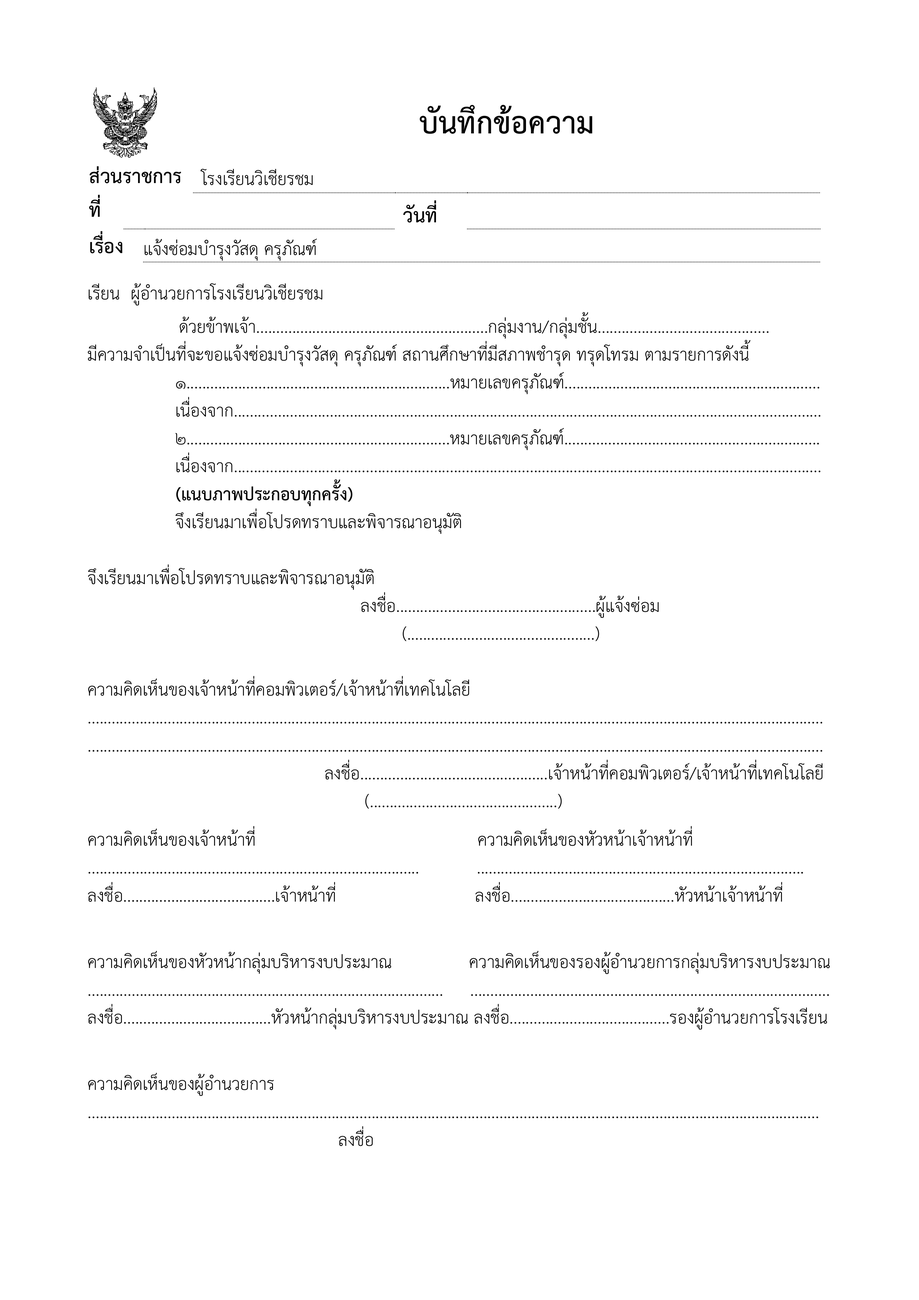
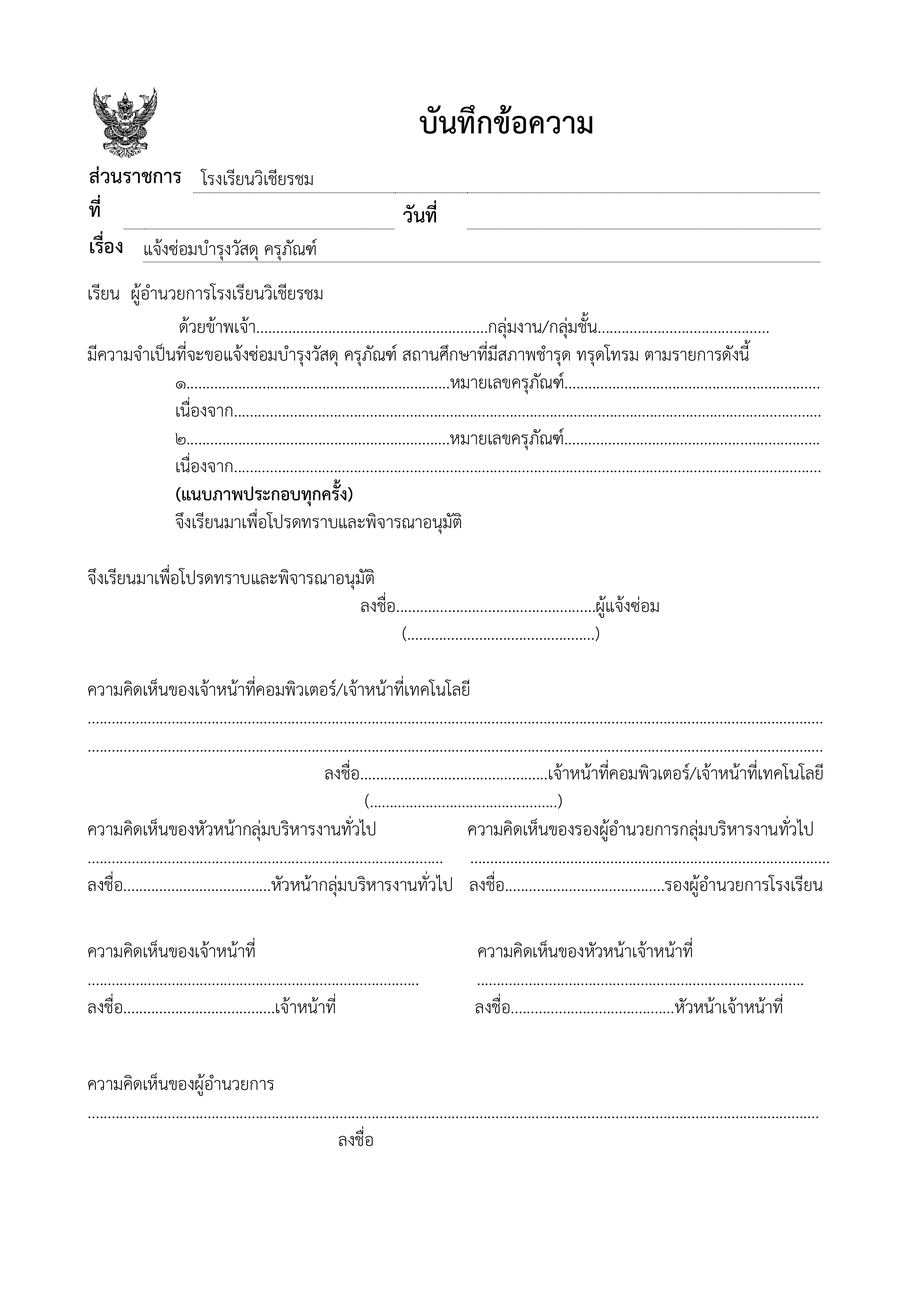
Add files via upload

diff --git a/admin.html b/admin.html
@@ -511,7 +511,7 @@
         names.map(n => `<option value="${esc(n)}">${esc(n)}</option>`).join('');
       $('e-staff').value = current || '';
     }
-    $('e-type').addEventListener('change', () => { fillStaff($('e-type').value, $('e-staff').value); toggleGeneralRows(); reasonHint(); });
+    $('e-type').addEventListener('change', () => { fillStaff($('e-type').value, $('e-staff').value); toggleSignerRows(); reasonHint(); });
     // งานไอที: ความเห็นพิมพ์ลงในแบบฟอร์ม (บังคับกรอก) / งานทั่วไป: แบบฟอร์มไม่มีช่องนี้ (เก็บไว้ในระบบเท่านั้น)
     function reasonHint() {
       $('e-reason-hint').textContent = $('e-type').value === 'IT'
@@ -665,13 +665,20 @@
       el.classList.remove('hidden');
     }
 
+    // ช่องที่ไม่ได้อยู่ในแบบฟอร์มทุกประเภท บอกไว้ว่าใช้กับใบประเภทไหน
+    function slotForms(k) {
+      const types = Object.keys(App.TYPES).filter(ty => App.slotsFor(ty).indexOf(k) >= 0);
+      if (types.length === Object.keys(App.TYPES).length) return '';
+      return ` <span class="font-normal text-xs text-gray-400">(เฉพาะใบ${esc(types.map(ty => App.TYPES[ty].label).join(' / '))})</span>`;
+    }
+
     function signerCard(k, s) {
       const base = (CFG.approvers || {})[k] || {};
       const sub = s.sub || {};
       return `
         <div class="border border-gray-200 rounded-xl p-4" data-slot="${k}">
           <div class="flex items-center justify-between gap-2 mb-2">
-            <div class="font-semibold text-gray-900">${esc(slotLabel(k))}</div>
+            <div class="font-semibold text-gray-900">${esc(slotLabel(k))}${slotForms(k)}</div>
             <span class="s-chip text-xs"></span>
           </div>
           <label class="block text-xs text-gray-500 mb-1">ชื่อผู้ลงนามปกติ</label>
@@ -781,20 +788,21 @@
         const def = App.resolveSigner(k, signerSettings, { createdAt: t.createdAt });
         const o = own[k] || {};
         return `
-          <div class="grid grid-cols-1 sm:grid-cols-[11rem_1fr_1fr] gap-2 sm:items-center" data-tslot="${k}" ${/^general/.test(k) ? 'data-general' : ''}>
+          <div class="grid grid-cols-1 sm:grid-cols-[11rem_1fr_1fr] gap-2 sm:items-center" data-tslot="${k}">
             <div class="text-sm text-gray-600">${esc(slotLabel(k))}</div>
             <input class="field t-name text-sm" maxlength="100" value="${esc(o.name || '')}" placeholder="${esc((def.name || 'ชื่อผู้ลงนาม') + (def.source === 'sub' ? ' (ผู้แทน)' : ''))}" aria-label="ชื่อผู้ลงนาม ${esc(slotLabel(k))}">
             <input class="field t-note text-sm" maxlength="150" value="${esc(o.note || '')}" placeholder="ข้อความใต้ชื่อ (ถ้ามี)" aria-label="ข้อความใต้ชื่อ ${esc(slotLabel(k))}">
           </div>`;
       }).join('');
-      toggleGeneralRows();
+      toggleSignerRows();
       const n = App.SIGNER_SLOTS.filter(k => own[k] && own[k].name).length;
       $('m-signers-hint').textContent = n ? `(เปลี่ยนไว้ ${n} ช่อง)` : '(ตามที่ตั้งไว้)';
       $('m-signers').open = n > 0;
     }
-    function toggleGeneralRows() {
-      const it = $('e-type').value === 'IT';
-      $('m-signer-rows').querySelectorAll('[data-general]').forEach(r => r.classList.toggle('hidden', it));
+    // แสดงเฉพาะช่องลงนามที่มีในแบบฟอร์มของประเภทงานที่เลือก
+    function toggleSignerRows() {
+      const slots = App.slotsFor($('e-type').value);
+      $('m-signer-rows').querySelectorAll('[data-tslot]').forEach(r => r.classList.toggle('hidden', slots.indexOf(r.dataset.tslot) < 0));
     }
     $('m-signer-rows').addEventListener('change', e => {
       if (!e.target.classList.contains('t-name')) return;
@@ -854,7 +862,7 @@
           if (e.origin !== location.origin || e.source !== f.contentWindow) return;
           const m = e.data || {};
           if (m.type !== 'repair-pdf') return;
-          finish(m.ok ? null : new Error(m.error || 'สร้าง PDF ไม่สำเร็จ'), m.data);
+          finish(m.ok ? null : new Error(m.error || 'สร้าง PDF ไม่สำเร็จ'), { data: m.data, form: m.form });
         }
         function finish(err, data) {
           clearTimeout(timer);
@@ -879,7 +887,7 @@
       refreshPdfRow(id);
       const label = 'ใบแจ้งซ่อม #' + App.padNo((byId.get(id) || {}).no);
       try {
-        const data = await renderPdf(id);
+        const { data, form } = await renderPdf(id);
         const idToken = await currentUser.getIdToken();
         const res = await fetch(CFG.appsScriptUrl, {
           method: 'POST',
@@ -888,7 +896,7 @@
         let out;
         try { out = JSON.parse(await res.text()); } catch (e) { throw new Error('Apps Script ตอบกลับผิดรูปแบบ'); }
         if (out.status !== 'success') throw new Error(out.message || 'บันทึกไม่สำเร็จ');
-        await updateDoc(doc(db, 'tickets', id), { pdfId: out.fileId, pdfForm: App.FORM_VERSION });
+        await updateDoc(doc(db, 'tickets', id), { pdfId: out.fileId, pdfForm: form || App.formVersion(byId.get(id)) });
         if (!quiet) App.toast(`📄 บันทึก${label} ลง Drive แล้ว`);
         return true;
       } catch (err) {

diff --git a/js/common.js b/js/common.js
@@ -153,6 +153,12 @@
   // ---------- ผู้ลงนามในบันทึกข้อความ ----------
   // ลำดับช่องลงนาม (ตำแหน่งและหัวข้อมาจาก CFG.approvers / ชื่อแก้ได้ที่หน้าเจ้าหน้าที่ > ผู้ลงนาม)
   const SIGNER_SLOTS = ['generalHead', 'generalDeputy', 'supplyOfficer', 'supplyHead', 'budgetHead', 'budgetDeputy', 'director'];
+  // ช่องลงนามที่มีในแบบฟอร์มแต่ละประเภท (งานไอทีไม่มีช่องกลุ่มบริหารงบประมาณ)
+  const FORM_SLOTS = {
+    General: SIGNER_SLOTS,
+    IT: ['generalHead', 'generalDeputy', 'supplyOfficer', 'supplyHead', 'director']
+  };
+  function slotsFor(type) { return FORM_SLOTS[type] || FORM_SLOTS.General; }
 
   // วันที่แบบ YYYY-MM-DD ตามเวลาไทย
   function ymd(d) {
@@ -190,9 +196,11 @@
   // พิมพ์ได้เมื่อเจ้าหน้าที่รับงานแล้ว (ดำเนินการ / เสร็จสิ้น)
   // งานไอทีต้องลงความเห็นก่อนด้วย เพราะแบบฟอร์มมีช่องความคิดเห็นของเจ้าหน้าที่ (งานทั่วไปไม่มี)
   const PRINTABLE = ['ดำเนินการ', 'เสร็จสิ้น'];
-  // รุ่นของแบบฟอร์มที่พิมพ์ — เปลี่ยนค่านี้เมื่อแก้หน้าตาใบแจ้งซ่อม ไฟล์ PDF ใน Drive ที่สร้างก่อนหน้าจะถูกนับว่าเป็นแบบเก่า
-  const FORM_VERSION = '2026-11-06';
-  function pdfOutdated(t) { return !!(t && t.pdfId) && t.pdfForm !== FORM_VERSION && !printBlock(t); }
+  // รุ่นของแบบฟอร์มแต่ละประเภท — เปลี่ยนค่าเมื่อแก้หน้าตาใบแจ้งซ่อม ไฟล์ PDF ใน Drive ที่สร้างก่อนหน้าจะถูกนับว่าเป็นแบบเก่า
+  // (ค่าไม่ซ้ำกันระหว่างประเภท เพื่อให้ใบที่เปลี่ยนประเภทงานหลังบันทึก PDF ถูกนับว่าเป็นแบบเก่าด้วย)
+  const FORM_VERSIONS = { General: '2026-11-06', IT: 'IT-2026-11-17' };
+  function formVersion(t) { return FORM_VERSIONS[t && t.type] || FORM_VERSIONS.General; }
+  function pdfOutdated(t) { return !!(t && t.pdfId) && t.pdfForm !== formVersion(t) && !printBlock(t); }
 
   function needsComment(t) { return !!t && t.type === 'IT'; }
   function printBlock(t) {
@@ -208,6 +216,7 @@
     esc, statusOf, statusBadge, typeBadge, padNo, toDate, formatDate, thaiDateParts,
     driveThumb, driveView, compressImage, uploadImage, configReady, toast, firestoreErrorText,
     csvCell, storageGet, storageSet,
-    SIGNER_SLOTS, ymd, defaultSubNote, subActiveOn, resolveSigner, printBlock, needsComment, FORM_VERSION, pdfOutdated
+    SIGNER_SLOTS, FORM_SLOTS, slotsFor, ymd, defaultSubNote, subActiveOn, resolveSigner, printBlock, needsComment,
+    FORM_VERSIONS, formVersion, pdfOutdated
   };
 })();

diff --git a/print.html b/print.html
@@ -126,11 +126,12 @@
         ],
         reporter: { pl: 260.6, pr: 388.4, b: 414.3 },
         tech: { lines: [{ x: 56.7, b: 468.6, w: 476.7 }, { x: 56.7, b: 486.7, w: 476.7 }], name: { pl: 236.4, pr: 364.2, b: 522.8 } },
+        // แบบฟอร์มงานไอที (ฉบับ 17 พ.ย. 2569): ช่างเทคโนโลยี → กลุ่มบริหารงานทั่วไป → เจ้าหน้าที่พัสดุ → ผู้อำนวยการ
         signers: {
-          supplyOfficer: { cx: 133.6,  b: 602.0, col: LEFT_COL },
-          supplyHead:    { cx: 387.3,  b: 602.0, col: RIGHT_COL },
-          budgetHead:    { cx: 132.3,  b: 681.0, col: LEFT_COL },
-          budgetDeputy:  { cx: 384.8,  b: 681.0, col: RIGHT_COL },
+          generalHead:   { cx: 126.3,  b: 595.1, col: LEFT_COL },
+          generalDeputy: { cx: 386.75, b: 595.1, col: RIGHT_COL },
+          supplyOfficer: { cx: 133.6,  b: 674.2, col: LEFT_COL },
+          supplyHead:    { cx: 387.3,  b: 674.2, col: RIGHT_COL },
           director:      { cx: 302.85, b: 760.1, col: FULL, titleB: 778.3 }
         }
       }
@@ -409,7 +410,7 @@
       $('info').textContent = `เลขที่ ${App.padNo(t.no)} · ${(App.TYPES[t.type] || App.TYPES.General).label} · ${App.statusOf(t)}`;
 
       if (EXPORT) {
-        exportPdf().then(data => report({ ok: true, data, no: t.no }))
+        exportPdf().then(data => report({ ok: true, data, no: t.no, form: App.formVersion(t) }))
           .catch(err => { console.error(err); report({ ok: false, error: 'สร้าง PDF ไม่สำเร็จ: ' + (err.message || err) }); });
         return;
       }

diff --git a/README.md b/README.md
@@ -1,0 +1,249 @@
+# ระบบแจ้งซ่อมโรงเรียนวิเชียรชม (เวอร์ชัน Firebase)
+
+ระบบนี้เก็บข้อมูลหลักไว้ใน **Firebase Firestore** ทำให้เปิดรายการได้เร็วและอัปเดตอัตโนมัติ
+ส่วน **Google Apps Script** ทำหน้าที่เก็บไฟล์ลง Google Drive คือ รูปภาพ แบบฟอร์มแจ้งซ่อม (PDF) และ Backup ข้อมูลทุกวัน
+
+```
+ครูแจ้งซ่อม ──► index.html ──► Firestore (ข้อมูลหลัก, เรียลไทม์)
+                    └─ รูป ─────────► Apps Script ─► Drive: รูปภาพแจ้งซ่อม/
+เจ้าหน้าที่ ──► admin.html (ล็อกอิน Google) ──► อัปเดตสถานะ / ตั้งผู้ลงนามแทน
+                    └─ PDF (ดำเนินการ / เสร็จสิ้น) ─► Apps Script ─► Drive: แบบฟอร์มแจ้งซ่อม/
+ทุกวันตี 2 ──► Apps Script อ่าน Firestore ─► Drive: Backup/ (Google Sheet + JSON)
+พิมพ์เอกสาร ──► print.html ──► บันทึกข้อความแจ้งซ่อม (แบบงานทั่วไป / แบบงานไอที)
+```
+
+โฟลเดอร์ใน Google Drive
+
+```
+ระบบแจ้งซ่อม/
+├─ รูปภาพแจ้งซ่อม/2026-11/...jpg
+├─ แบบฟอร์มแจ้งซ่อม/2026-11/0005 นางสาวสมใจ ใจดี.pdf
+└─ Backup/  (Google Sheet + backup-ปี-เดือน-วัน.json)
+```
+
+## ไฟล์ในระบบ
+
+| ไฟล์ | หน้าที่ |
+|---|---|
+| `index.html` | หน้าแจ้งซ่อมและรายการแจ้งซ่อม (สาธารณะ) |
+| `admin.html` | แผงควบคุมเจ้าหน้าที่ (ล็อกอินด้วย Google) |
+| `print.html` | บันทึกข้อความแจ้งซ่อม พร้อมพิมพ์หรือบันทึกเป็น PDF |
+| `admin_dashboard.html` | หน้าเปลี่ยนเส้นทางจากลิงก์เดิมของระบบเก่าไปที่ `admin.html` |
+| `js/config.js` | **ค่าตั้งค่าทั้งหมด** — ค่า Firebase, URL Apps Script, รายชื่อช่าง, ตำแหน่งในช่องลงนาม |
+| `js/common.js` | ฟังก์ชันที่ทุกหน้าใช้ร่วมกัน |
+| `css/app.css` | สไตล์หน้าเว็บที่แปลงไว้ล่วงหน้า (ทำให้เปิดเร็วขึ้น) |
+| `img/memo-general.png`, `img/memo-it.png` | **แบบฟอร์มบันทึกข้อความต้นฉบับ** (จากไฟล์ PDF ของโรงเรียน เอาเฉพาะชื่อผู้ลงนามออก) ใช้เป็นพื้นหลังตอนพิมพ์ |
+| `fonts/THSarabunNew*.woff2` | ฟอนต์ TH Sarabun New (ฟอนต์แห่งชาติ ขนาดตัวอักษรเท่ากับ TH SarabunIT๙ ทุกตัว) ใช้เมื่อเครื่องไม่มี TH SarabunIT๙ |
+| `img/garuda.png` | ตราครุฑ |
+| `firestore.rules` | กฎความปลอดภัยของฐานข้อมูล |
+| `apps-script/Code.gs`, `apps-script/appsscript.json` | โค้ด Apps Script (เก็บรูป + แบบฟอร์ม PDF + Backup) |
+
+---
+
+## ขั้นที่ 1 — สร้างโปรเจกต์ Firebase (ประมาณ 10 นาที)
+
+> ใช้บัญชี Google ที่จะดูแลระบบระยะยาว และใช้บัญชีเดียวกันนี้ในขั้นที่ 3 ด้วย
+> บัญชีโรงเรียนที่ถูกตั้งเป็น "อายุต่ำกว่า 18 ปี" จะเปิด Firebase และ Apps Script ไม่ได้ ให้ใช้ Gmail ส่วนตัวแทน แล้วให้ไฟล์ไปอยู่ในไดรฟ์โรงเรียนได้ตามขั้นที่ 3 ข้อ 0
+
+1. เข้า <https://console.firebase.google.com> → **Create a project** → ตั้งชื่อ เช่น `wichianchom-repair` (ไม่ต้องเปิด Google Analytics)
+2. **สร้างฐานข้อมูล:** เมนู Build → **Firestore Database** → Create database
+   - Location: เลือก **`asia-southeast1` (Singapore)** หรือ region ที่ใกล้ไทยที่สุดในรายการ เพื่อให้ระบบเร็ว *(เปลี่ยนภายหลังไม่ได้)*
+   - เลือก **Start in production mode**
+3. **ใส่กฎความปลอดภัย:** Firestore Database → แท็บ **Rules** → ลบของเดิม แล้ววางเนื้อหาไฟล์ `firestore.rules` ทั้งไฟล์ → **Publish**
+4. **เปิดล็อกอินด้วย Google:** Build → **Authentication** → Get started → แท็บ Sign-in method → **Google** → Enable → เลือกอีเมลติดต่อ → Save
+5. **เอาค่าตั้งค่ามาใส่เว็บ:** ⚙ Project settings → ส่วน Your apps → กดไอคอน **`</>`** (Web) → ตั้งชื่อแอป → Register
+   - จะเห็นโค้ด `firebaseConfig = { apiKey: ..., authDomain: ..., ... }`
+   - คัดลอกค่าทั้ง 6 ตัวไปใส่ในส่วน `firebase:` ของ `js/config.js`
+   - ค่าชุดนี้ **เปิดเผยได้ตามปกติ** ความปลอดภัยของระบบอยู่ที่ `firestore.rules`
+
+## ขั้นที่ 2 — กำหนดเจ้าหน้าที่ที่เข้าแผงควบคุมได้
+
+1. Firestore Database → แท็บ Data → **Start collection** → Collection ID: `admins`
+2. Document ID: **อีเมล Google ของเจ้าหน้าที่ ตัวพิมพ์เล็กทั้งหมด** เช่น `somchai@gmail.com`
+3. เพิ่ม field อะไรก็ได้ 1 ช่อง เช่น `name` (string) = `นายสมชาย` → Save
+4. ทำซ้ำสำหรับเจ้าหน้าที่ทุกคน และลบ document ออกเมื่อต้องการถอนสิทธิ์
+
+> รหัสผ่าน `admin123` แบบเดิมถูกยกเลิกแล้ว เจ้าหน้าที่ต้องล็อกอินด้วยบัญชี Google ที่มีชื่ออยู่ในรายการนี้เท่านั้น
+
+## ขั้นที่ 3 — ติดตั้ง Apps Script (เก็บรูป + แบบฟอร์ม + Backup)
+
+> ติดตั้งด้วย **บัญชีเดียวกับที่สร้าง Firebase** (อีเมลส่วนตัว) ถ้าอยากให้รูปและ Backup ไปอยู่ในไดรฟ์ของอีเมลโรงเรียน ให้ทำข้อ 0 ก่อน
+> ทำในหน้าต่างที่ล็อกอินบัญชีนี้บัญชีเดียว (เช่น Incognito) เพราะถ้าล็อกอินหลายบัญชีพร้อมกัน Apps Script มักสับสนบัญชี
+
+0. **(ถ้าต้องการ) ให้ไฟล์ไปอยู่ในไดรฟ์ของอีเมลโรงเรียน**
+   - ล็อกอินอีเมลโรงเรียน → Google Drive → **สร้างโฟลเดอร์ใหม่** เช่น `ระบบแจ้งซ่อม`
+   - คลิกขวาโฟลเดอร์ → **แชร์** → ใส่อีเมลส่วนตัว → สิทธิ์ **ผู้แก้ไข (Editor)** → ส่ง
+   - คลิกขวาโฟลเดอร์อีกครั้ง → แชร์ → **คัดลอกลิงก์** เก็บไว้ใช้ในข้อ 2
+   - รูป แบบฟอร์ม และ Backup จะแสดงในโฟลเดอร์นี้ของอีเมลโรงเรียน แต่ Google จะนับอีเมลส่วนตัวเป็นเจ้าของไฟล์ (ใช้พื้นที่ของอีเมลส่วนตัว รูปละราว 0.3 MB แบบฟอร์มละราว 0.5 MB)
+   - ถ้าแชร์ไม่ได้เพราะโรงเรียนห้ามแชร์ไฟล์ให้คนนอกองค์กร ให้ข้ามข้อนี้ไป ไฟล์จะเก็บใน Drive ของอีเมลส่วนตัวแทน
+1. เข้า <https://script.google.com> → New project → ตั้งชื่อ เช่น `ระบบแจ้งซ่อม - รูปและ Backup`
+2. ลบโค้ดเดิมใน `Code.gs` แล้ววางเนื้อหาไฟล์ `apps-script/Code.gs` ทั้งไฟล์
+   - ถ้าทำข้อ 0 ให้วางลิงก์โฟลเดอร์ในบรรทัด `const DRIVE_FOLDER = '';` เช่น `const DRIVE_FOLDER = 'https://drive.google.com/drive/folders/xxxx';`
+3. ตรวจบรรทัด `FIREBASE_PROJECT_ID` และ `FIREBASE_API_KEY` ให้ตรงกับ `projectId` และ `apiKey` จากขั้นที่ 1 (ใส่ไว้ให้แล้ว)
+4. ⚙ Project Settings → ติ๊ก **Show "appsscript.json" manifest file in editor** → กลับไปหน้า Editor → เปิด `appsscript.json` → วางเนื้อหาไฟล์ `apps-script/appsscript.json` ทับ → Save
+4.1 **ใส่กุญแจ Service Account** (ให้ Apps Script อ่านข้อมูล Firebase ได้ ใช้ทั้ง Backup และบันทึกแบบฟอร์ม)
+   - Firebase Console → ⚙ Project settings → แท็บ **Service accounts** → ปุ่ม **Generate new private key** → Generate key → ได้ไฟล์ `.json` มา 1 ไฟล์
+   - เปิดไฟล์นั้นด้วย Notepad → Ctrl+A → Ctrl+C
+   - Apps Script → ⚙ Project Settings → เลื่อนลงล่างสุด **Script Properties** → **Add script property** → Property: `SERVICE_ACCOUNT` → Value: วาง (Ctrl+V) → **Save script properties**
+   - ลบไฟล์ `.json` ที่ดาวน์โหลดออกจากเครื่อง และห้ามส่งให้ใคร (กุญแจนี้มีสิทธิ์เต็มในฐานข้อมูล)
+5. ด้านบนเลือกฟังก์ชัน **`setup`** → กด **Run** → Review permissions → เลือกบัญชี → Advanced → Go to ... (unsafe) → **Allow**
+   - ดู Execution log ต้องเห็น "🔑 เชื่อม Firebase ด้วย Service Account", ✅ หลายบรรทัด และ "ติดตั้งเสร็จ"
+   - ระบบจะสร้างโฟลเดอร์ "รูปภาพแจ้งซ่อม", "แบบฟอร์มแจ้งซ่อม", "Backup" และ Google Sheet สำรองข้อมูล ไว้ในโฟลเดอร์จากข้อ 0 (หรือในโฟลเดอร์ใหม่ชื่อ "ระบบแจ้งซ่อม (Firebase)" ใน Drive ของบัญชีนี้ ถ้าไม่ได้ใส่ `DRIVE_FOLDER`)
+   - ถ้าเปลี่ยน `DRIVE_FOLDER` ภายหลัง ให้รัน `setup` อีกครั้ง
+6. **Deploy → New deployment** → ไอคอนเฟือง → **Web app**
+   - Execute as: **Me**
+   - Who has access: **Anyone**
+   - กด Deploy → คัดลอก **Web app URL** (ลงท้ายด้วย `/exec`) ไปใส่ที่ `appsScriptUrl` ใน `js/config.js`
+
+> ถ้าแก้โค้ด Apps Script ภายหลัง ให้ไปที่ Deploy → Manage deployments → ✏ Edit → Version: **New version** → Deploy (URL จะเหมือนเดิม)
+
+## ขั้นที่ 4 — นำเว็บขึ้นออนไลน์ (GitHub เดิม: `wichianchom/wcc-repair-system`)
+
+เว็บเดิมอยู่ที่ <https://wichianchom.github.io/wcc-repair-system/> ให้อัปโหลดไฟล์ชุดใหม่ทับใน repository เดิม ลิงก์เว็บจะเหมือนเดิม
+
+1. **Firebase ก่อน:** Authentication → **Settings → Authorized domains** → **Add domain** → ใส่ `wichianchom.github.io` *(ถ้าไม่เพิ่ม หน้าเจ้าหน้าที่จะล็อกอินไม่ได้)*
+2. เปิด <https://github.com/wichianchom/wcc-repair-system> → **Add file → Upload files**
+3. ลากไฟล์และโฟลเดอร์เหล่านี้ลงไป: `index.html`, `admin.html`, `print.html`, `admin_dashboard.html`, โฟลเดอร์ `css`, `js`, `img` และ `fonts` (**ต้องลากตัวโฟลเดอร์ไปด้วย** ถ้าไม่มีโฟลเดอร์ `js` หน้าเว็บจะขึ้นว่าโหลดไฟล์ระบบไม่ครบ)
+   - **ไม่ต้อง** อัปโหลด `apps-script`, `firestore.rules`, `firebase.json`, `README.md`
+   - `index.html` และ `admin_dashboard.html` จะทับไฟล์เก่า (`admin_dashboard.html` ตัวใหม่แค่พาไปหน้า `admin.html` เพื่อปิดช่องโหว่รหัส `admin123` ของหน้าเดิม)
+4. กด **Commit changes** แล้วรอ 1–2 นาที ให้ GitHub Pages อัปเดต
+
+> เมื่อระบบใหม่ใช้งานได้แล้ว ให้ปิด Web app ของ Apps Script ตัวเก่า (Deploy → Manage deployments → Archive) เพราะไม่มีการตรวจสิทธิ์ ส่วน Google Sheet เก่ายังเก็บไว้ได้ตามเดิม
+
+<details>
+<summary>ทางเลือก: ใช้ Firebase Hosting (ฟรี, ไม่ต้องเพิ่ม Authorized domain)</summary>
+
+ต้องมี Node.js ในเครื่อง แล้วรันในโฟลเดอร์นี้
+
+```bash
+npm install -g firebase-tools
+firebase login
+firebase use --add          # เลือกโปรเจกต์ที่สร้างไว้
+firebase deploy             # อัปโหลดเว็บ + firestore.rules พร้อมกัน
+```
+เว็บจะอยู่ที่ `https://<project-id>.web.app`
+</details>
+
+## ขั้นที่ 5 — ทดสอบก่อนใช้จริง
+
+- [ ] เปิด `index.html` → ใต้หัวข้อต้องมีจุดเขียว "อัปเดตอัตโนมัติ"
+- [ ] แจ้งซ่อมทดสอบ 1 รายการพร้อมรูป → ได้เลขที่ `#0001` และรูปไปอยู่ใน Drive โฟลเดอร์ "รูปภาพแจ้งซ่อม"
+- [ ] เปิด `admin.html` → ล็อกอินด้วย Google → เห็นรายการ → เปลี่ยนสถานะ → หน้าแจ้งซ่อมเปลี่ยนตามทันทีโดยไม่ต้องรีเฟรช
+- [ ] กด "พิมพ์ใบแจ้งซ่อม" → ตรวจบันทึกข้อความ → พิมพ์ (กระดาษ A4, Scale 100%)
+- [ ] ตั้งสถานะเป็น "ดำเนินการ" → รอสักครู่ ต้องขึ้น "📄 บันทึกใบแจ้งซ่อม ... ลง Drive แล้ว" และมีไฟล์ในโฟลเดอร์ "แบบฟอร์มแจ้งซ่อม"
+- [ ] กดปุ่ม "✍ ผู้ลงนาม" → ตั้งผู้แทนทดลอง 1 ช่องโดยใส่วันที่วันนี้ → เปิดพิมพ์ใบแจ้งซ่อม ต้องเห็นชื่อผู้แทน → แล้วเอาเครื่องหมายถูกออก
+- [ ] ใน Apps Script เลือก `backupFirestore` → Run → เปิด Google Sheet สำรองข้อมูล ต้องเห็นรายการที่ทดสอบ
+- [ ] ลบรายการทดสอบใน Firestore (Data → tickets) และตั้ง `meta/counter` ช่อง `last` กลับเป็น `0` ถ้าอยากเริ่มนับเลขที่ใหม่
+
+---
+
+## การ Backup และกู้ข้อมูล
+
+| ที่เก็บ | รายละเอียด |
+|---|---|
+| Google Sheet "Backup ระบบแจ้งซ่อม" | เขียนทับทุกวันตอนตี 2 อ่านง่าย เปิดดูหรือกรองได้ทันที |
+| ไฟล์ `backup-ปี-เดือน-วัน.json` | สร้างใหม่ทุกวัน เก็บย้อนหลัง 30 ไฟล์ มีข้อมูลครบทุกช่อง ใช้กู้คืนได้ |
+| โฟลเดอร์ "รูปภาพแจ้งซ่อม" | รูปทั้งหมด แยกโฟลเดอร์ตามเดือน |
+| โฟลเดอร์ "แบบฟอร์มแจ้งซ่อม" | บันทึกข้อความแจ้งซ่อมเป็น PDF ชื่อไฟล์ขึ้นต้นด้วยเลขที่ แยกตามเดือนที่แจ้ง |
+
+- มุมขวาล่างของหน้าเจ้าหน้าที่จะแสดงเวลาที่ Backup ครั้งล่าสุด
+- ปุ่ม **ดาวน์โหลด CSV** ในหน้าเจ้าหน้าที่ใช้ดึงข้อมูลทั้งหมดเปิดใน Excel ได้ทุกเมื่อ
+- ข้อมูลเก่าใน Google Sheet ของระบบเดิมยังอยู่ครบ ระบบใหม่เริ่มนับเลขที่จาก 1
+
+## โควตาฟรีของ Firebase (แพ็กเกจ Spark ไม่ต้องผูกบัตร)
+
+- อ่านข้อมูลได้วันละ 50,000 ครั้ง เขียนได้วันละ 20,000 ครั้ง เก็บข้อมูลได้ 1 GB
+- การเปิดหน้ารายการหนึ่งครั้งอ่านไม่เกิน 60 รายการ (ปรับได้ที่ `publicPageSize`) จึงรองรับการเปิดได้หลายร้อยครั้งต่อวัน
+- โควตารีเซ็ตทุกเที่ยงคืนเวลาแปซิฟิก (ประมาณบ่าย 2–3 โมงเวลาไทย) ดูการใช้งานได้ที่ Firestore → Usage
+- ระบบไม่ใช้ Cloud Storage ของ Firebase (ต้องใช้แพ็กเกจเสียเงิน) จึงเก็บรูปไว้ใน Google Drive แทน
+
+## ใบแจ้งซ่อมที่พิมพ์ออกมา
+
+- **พิมพ์ได้เมื่อเจ้าหน้าที่ตรวจสอบแล้วเท่านั้น** คือสถานะเป็น "ดำเนินการ" หรือ "เสร็จสิ้น" ระหว่าง "รอการตรวจสอบ" ปุ่มพิมพ์จะขึ้นเป็น 🔒 ทั้งงานทั่วไปและงานไอที
+  - **งานไอที** ต้องกรอก "ความคิดเห็นของเจ้าหน้าที่" ก่อนเปลี่ยนเป็น "ดำเนินการ" เพราะแบบฟอร์มมีช่องนี้ และจะพิมพ์ลงในใบ
+  - **งานทั่วไป** ไม่ต้องลงความเห็น (แบบฟอร์มไม่มีช่องนี้) ช่องความเห็นในหน้าเจ้าหน้าที่ใช้จดไว้ในระบบเท่านั้น
+
+- ใช้ **แบบฟอร์มบันทึกข้อความต้นฉบับของโรงเรียน** (ไฟล์ PDF) เป็นพื้นหลังทั้งหน้า แล้วกรอกข้อมูลทับบนเส้นประ หน้าตาจึงเหมือนต้นฉบับทุกจุด
+  - งานทั่วไป ใช้แบบหน้าแรกของไฟล์ / งานไอที ใช้แบบหน้าที่สอง
+  - ช่องลงนาม **งานทั่วไป**: กลุ่มบริหารงานทั่วไป → เจ้าหน้าที่พัสดุ → กลุ่มบริหารงบประมาณ → ผู้อำนวยการ
+  - ช่องลงนาม **งานไอที** (ฉบับ 17 พ.ย. 2569): ความเห็นช่างคอมพิวเตอร์/เทคโนโลยี → กลุ่มบริหารงานทั่วไป → เจ้าหน้าที่พัสดุ → ผู้อำนวยการ (ไม่มีช่องกลุ่มบริหารงบประมาณ)
+  - ตัวอักษรที่กรอกใช้ TH SarabunIT๙ ถ้าเครื่องติดตั้งไว้ ถ้าไม่มีใช้ TH Sarabun New ซึ่งเป็นแบบอักษรเดียวกันและขนาดเท่ากันทุกตัว ตัวเลขแสดงเป็นเลขไทยแบบ TH SarabunIT๙
+  - ข้อความยาวเกินช่องจะย่อขนาดตัวอักษรลงให้พอดีช่องอัตโนมัติ
+- แบบฟอร์มมีช่องรายการ 2 ช่อง หน้าแจ้งซ่อมจึงรับได้สูงสุด 2 รายการ
+- **แผ่นที่ 2** เป็นภาพประกอบ มีหัวกระดาษบอกเลขที่ ผู้แจ้ง กลุ่มงาน สถานที่ และวันที่แจ้ง (ทั้งงานทั่วไปและงานไอที) เลือกไม่พิมพ์ได้ที่แถบด้านบนของหน้าพิมพ์
+- **สถานที่** ไม่มีช่องในแบบฟอร์ม จึงแสดงไว้ที่หัวกระดาษแผ่นที่ 2 แทน
+- ถ้าโรงเรียนเปลี่ยนแบบฟอร์ม ให้ส่งไฟล์ PDF ใหม่มาทำพื้นหลังและตำแหน่งช่องใหม่ (ตำแหน่งช่องอยู่ที่ `LAYOUT` ใน `print.html`)
+
+## แบบฟอร์มแจ้งซ่อม (PDF) ใน Drive
+
+- สร้างอัตโนมัติเมื่อเจ้าหน้าที่บันทึกสถานะ **"ดำเนินการ"** หรือ **"เสร็จสิ้น"** และสร้างใหม่ทับไฟล์เดิมทุกครั้งที่บันทึก ไฟล์จึงตรงกับข้อมูลล่าสุดเสมอ (ไฟล์เก่าจะอยู่ในถังขยะ 30 วัน)
+- กดเองได้ที่หน้าต่างจัดการงาน → "📄 แบบฟอร์มใน Drive" → **บันทึกลง Drive / อัปเดตไฟล์**
+- **ไฟล์ที่บันทึกไว้ก่อนเปลี่ยนแบบฟอร์ม** หน้าเจ้าหน้าที่จะขึ้นแถบสีฟ้า "มีไฟล์ใบแจ้งซ่อมใน Drive … ไฟล์ ที่ยังเป็นแบบฟอร์มเก่า" กด **อัปเดตเป็นแบบฟอร์มปัจจุบันทั้งหมด** ระบบจะสร้างไฟล์ใหม่แทนทีละใบ (ไฟล์เก่าอยู่ในถังขยะ 30 วัน)
+  - ถ้าแก้หน้าตาใบแจ้งซ่อมอีกในอนาคต ให้เปลี่ยนค่าของประเภทนั้นใน `FORM_VERSIONS` ใน `js/common.js` แถบนี้จะขึ้นให้อัปเดตเฉพาะไฟล์ของประเภทนั้น
+  - ใบที่เปลี่ยนประเภทงานหลังบันทึก PDF แล้ว ก็จะถูกนับว่าเป็นแบบเก่าและอัปเดตให้ด้วย
+  - การกด "พิมพ์" ใช้แบบฟอร์มปัจจุบันเสมอ ไม่ต้องอัปเดตอะไร
+- ไฟล์ PDF เป็นภาพของบันทึกข้อความ 1 หน้า (เหมือนที่พิมพ์ออกมา) ไม่รวมรูปถ่าย เพราะรูปเก็บแยกอยู่ในโฟลเดอร์ "รูปภาพแจ้งซ่อม" แล้ว
+- ส่งได้เฉพาะเจ้าหน้าที่ที่ล็อกอินแล้ว Apps Script ตรวจตัวตนกับ Firebase และตรวจรายชื่อใน `admins` ทุกครั้ง
+
+## เปลี่ยนผู้ลงนาม / ผู้ปฏิบัติหน้าที่แทน
+
+หน้าเจ้าหน้าที่ → ปุ่ม **✍ ผู้ลงนาม**
+
+- **ชื่อผู้ลงนามปกติ** — แก้ได้ทันทีเมื่อมีการเปลี่ยนตัวบุคคล ไม่ต้องแก้ไฟล์
+- **มีผู้ปฏิบัติหน้าที่แทน** — ติ๊กแล้วกรอกชื่อผู้แทน ข้อความ (ช่องผู้อำนวยการ: แสดงแทนบรรทัดตำแหน่งใต้ชื่อ เช่น "รักษาราชการแทนผู้อำนวยการโรงเรียนวิเชียรชม" / ช่องอื่น: แสดงต่อท้ายชื่อ เช่น "ปฏิบัติหน้าที่แทน") และช่วงวันที่
+  - ใบแจ้งซ่อมที่ **ลงวันที่ในช่วงนั้น** จะพิมพ์ชื่อผู้แทนอัตโนมัติ ใบที่ลงวันที่นอกช่วงยังใช้ชื่อปกติ แม้จะพิมพ์ซ้ำภายหลัง
+  - ไม่ใส่วันที่ = ใช้ผู้แทนกับทุกใบจนกว่าจะเอาเครื่องหมายถูกออก
+  - ระหว่างที่มีผู้แทน หน้าเจ้าหน้าที่จะมีแถบสีม่วงแจ้งไว้
+- **เปลี่ยนเฉพาะใบ** — ในหน้าต่างจัดการงาน → "✍ ผู้ลงนามในใบนี้" กรอกเฉพาะช่องที่ต้องการเปลี่ยน แล้วกดบันทึก (แสดงเฉพาะช่องที่มีในแบบฟอร์มของประเภทงานนั้น)
+- ช่องกลุ่มบริหารงบประมาณมีเฉพาะใบงานทั่วไป ในหน้าตั้งผู้ลงนามจะมีป้าย "(เฉพาะใบงานทั่วไป)" กำกับไว้
+
+## ความปลอดภัย
+
+- คนทั่วไปทำได้แค่ดูรายการและแจ้งซ่อมใหม่ ข้อมูลที่ส่งเข้ามาจะถูกตรวจรูปแบบทุกครั้งตาม `firestore.rules`
+- **เบอร์โทรและหมายเหตุภายใน** เก็บแยกไว้ และเห็นได้เฉพาะเจ้าหน้าที่
+- ข้อความที่ผู้ใช้กรอกถูกแสดงแบบป้องกันการฝังโค้ด (XSS) ทุกจุด
+- Apps Script รับเฉพาะไฟล์รูป จำกัดขนาด และจำกัดจำนวนการอัปโหลดต่อ 10 นาที ส่วนแบบฟอร์ม PDF รับเฉพาะจากเจ้าหน้าที่ที่ยืนยันตัวตนแล้ว
+- รายชื่อผู้ลงนามแก้ได้เฉพาะเจ้าหน้าที่
+
+## ปรับแต่งที่ `js/config.js`
+
+- `staff` — รายชื่อช่างแยกตามประเภทงาน
+- `approvers` — หัวข้อและตำแหน่งในช่องลงนาม (ส่วน **ชื่อ** ให้แก้ที่ปุ่ม "✍ ผู้ลงนาม" ในหน้าเจ้าหน้าที่)
+- `techSection` — ช่องความเห็นของช่าง/เจ้าหน้าที่ผู้รับผิดชอบ แบบฟอร์มงานทั่วไปเดิมไม่มีช่องนี้ ระบบเพิ่มไว้ให้เพื่อพิมพ์ผลการซ่อม ถ้าไม่ต้องการให้ลบบรรทัด `General: {...}` ออก
+- `publicPageSize`, `adminPageSize` — จำนวนรายการที่โหลดต่อครั้ง
+
+---
+
+## แก้ปัญหาที่พบบ่อย
+
+**หน้าเว็บขึ้น "ไม่มีสิทธิ์เข้าถึงข้อมูล"**
+ยังไม่ได้ Publish `firestore.rules` (ขั้นที่ 1 ข้อ 3) หรือวางไฟล์ไม่ครบ
+
+**หน้าเจ้าหน้าที่ขึ้น "โดเมนนี้ยังไม่ได้รับอนุญาต"**
+เพิ่มโดเมนเว็บใน Authentication → Settings → Authorized domains
+
+**ล็อกอินแล้วขึ้น "ยังไม่มีสิทธิ์เจ้าหน้าที่"**
+Document ID ใน collection `admins` ต้องเป็นอีเมลตรงกันทุกตัวอักษร และเป็นตัวพิมพ์เล็กทั้งหมด
+
+**อัปโหลดรูปไม่สำเร็จ**
+- ตรวจว่า Deploy แบบ Web app โดยตั้ง Who has access เป็น **Anyone** และใช้ URL ที่ลงท้ายด้วย `/exec`
+- ถ้าเพิ่งแก้โค้ด ต้อง Deploy เป็น **New version**
+- ถ้ารัน `setup` แล้วขึ้น "เปิดโฟลเดอร์ใน DRIVE_FOLDER ไม่ได้" ให้ตรวจว่าวางลิงก์ถูก และอีเมลโรงเรียนแชร์โฟลเดอร์ให้อีเมลส่วนตัวเป็น "ผู้แก้ไข" แล้ว
+
+**บันทึกแบบฟอร์มลง Drive ไม่สำเร็จ**
+- "ต้องอัปเดตโค้ด Apps Script..." → วาง `Code.gs` ชุดใหม่ แล้ว Deploy → Manage deployments → ✏ → Version: **New version**
+- "ยืนยันตัวตนไม่สำเร็จ" → ตรวจ `FIREBASE_API_KEY` ใน `Code.gs` ให้ตรงกับ `apiKey` ใน `js/config.js` แล้วออกจากระบบและเข้าใหม่
+- "บัญชีนี้ไม่มีสิทธิ์เจ้าหน้าที่" → อีเมลยังไม่อยู่ใน collection `admins`
+
+**กดปุ่ม "✍ ผู้ลงนาม" แล้วบันทึกไม่ได้ (ไม่มีสิทธิ์)**
+วาง `firestore.rules` ชุดใหม่ (มีส่วน `settings`) แล้วกด Publish
+
+**Backup ไม่ทำงาน (มุมขวาล่างหน้าเจ้าหน้าที่ขึ้น ⚠)**
+เปิด Apps Script → Executions เพื่อดูข้อความผิดพลาด
+- `403 Missing or insufficient permissions` + "ตั้งค่า SERVICE_ACCOUNT" → ยังไม่ได้ใส่กุญแจ ทำขั้นที่ 3 ข้อ 4.1
+- "SERVICE_ACCOUNT ไม่ถูกต้อง" → วางเนื้อหาไฟล์ `.json` ไม่ครบ ให้ลบ property เดิมแล้ววางใหม่ทั้งไฟล์
+- "ขอสิทธิ์จาก Service Account ไม่สำเร็จ" → กุญแจถูกลบใน Firebase ให้สร้างกุญแจใหม่แล้ววางทับ
+- `404` → ยังไม่ได้สร้าง Firestore Database หรือ `FIREBASE_PROJECT_ID` ไม่ถูกต้อง
+
+**พิมพ์แล้วไม่ตรงกระดาษ**
+ในหน้าต่างพิมพ์ให้เลือกกระดาษ **A4**, Scale **100%** (หรือ "ค่าเริ่มต้น") และระยะขอบ **ไม่มี / None** ถ้าเลือก "พอดีกับหน้า (Fit to page)" แบบฟอร์มจะถูกย่อลง
